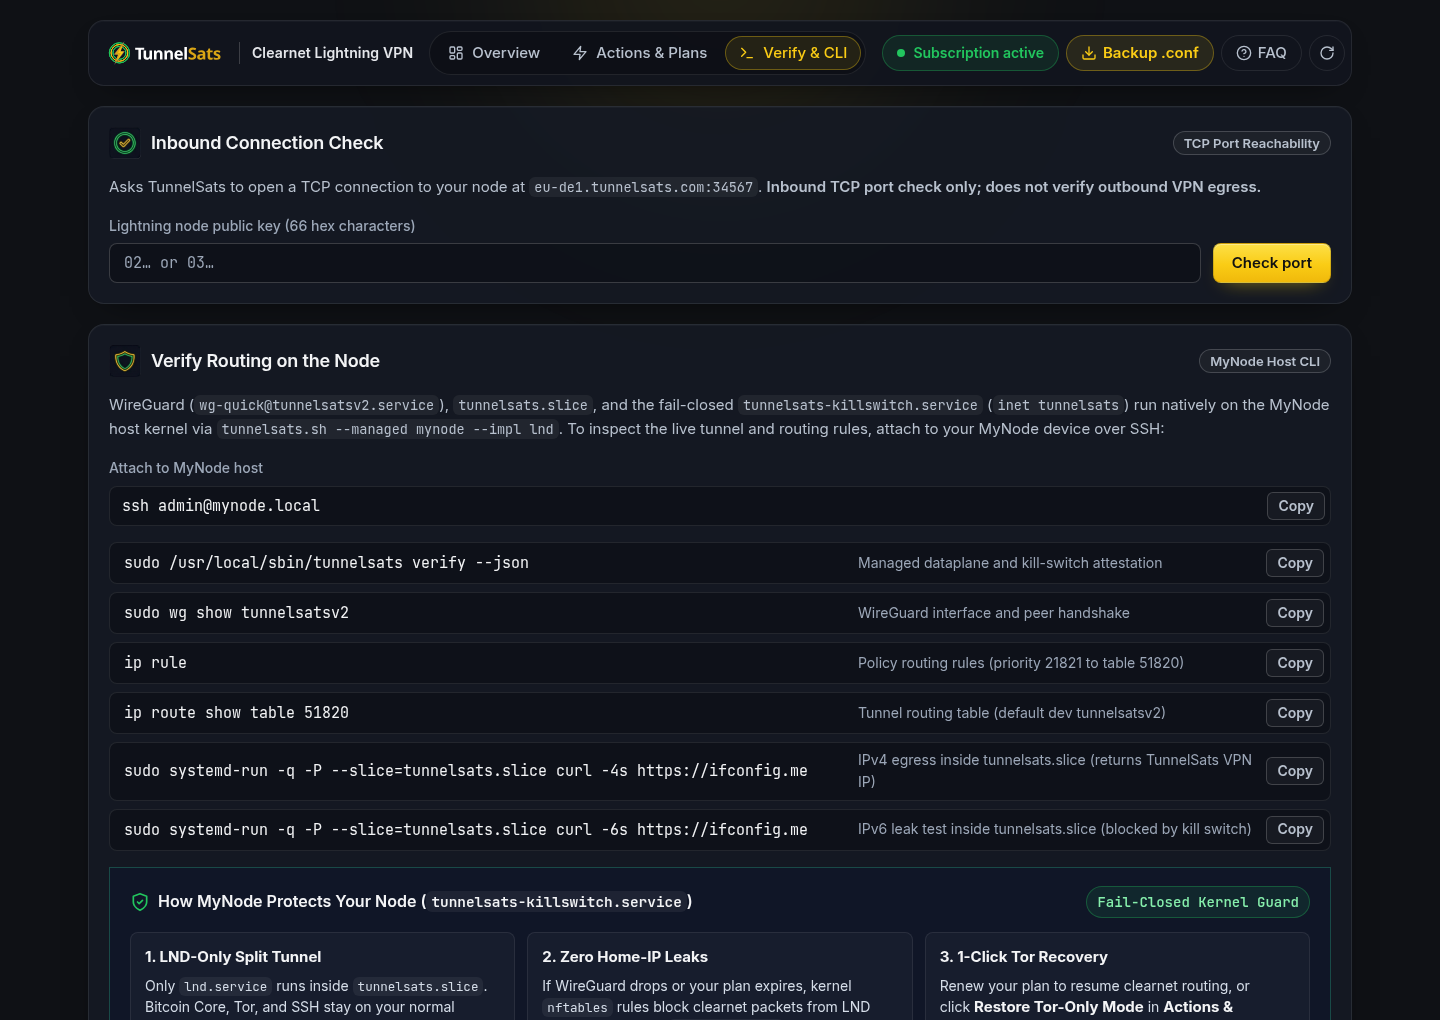
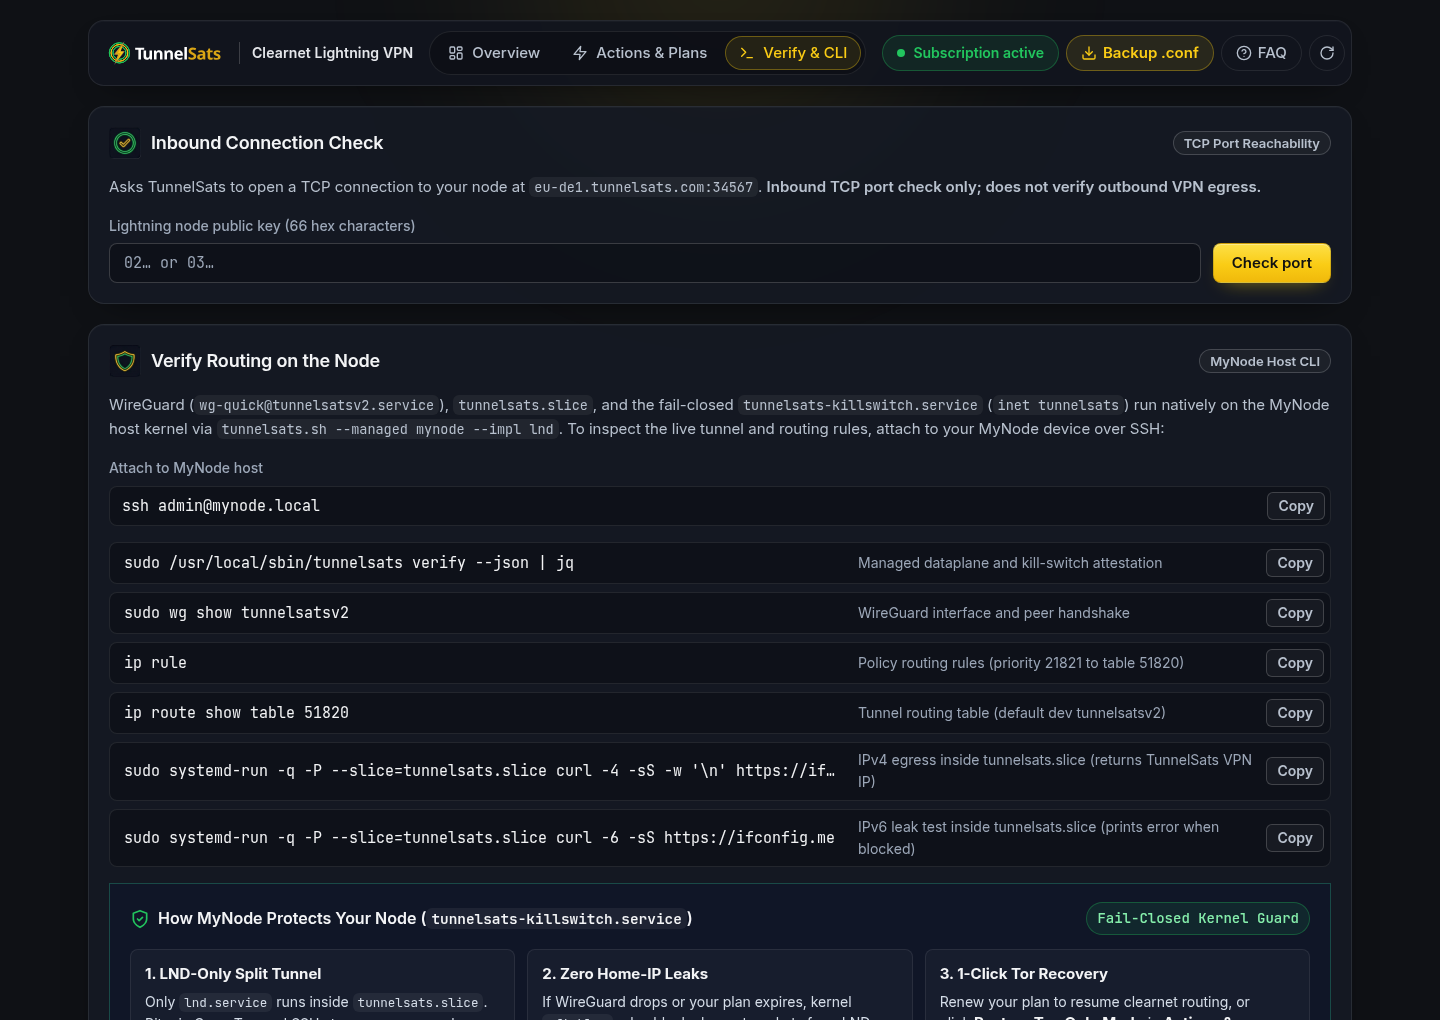
chore(release,ui): bump version to v1.0.0 and refine Verify & CLI commands (#11)

diff --git a/web/index.html b/web/index.html
@@ -1363,7 +1363,7 @@
           <ul class="command-list">
             <li>
               <code id="cmd-ts-verify"
-                >sudo /usr/local/sbin/tunnelsats verify --json</code
+                >sudo /usr/local/sbin/tunnelsats verify --json | jq</code
               >
               <span>Managed dataplane and kill-switch attestation</span>
               <button
@@ -1413,7 +1413,7 @@
             </li>
             <li>
               <code id="cmd-egress-v4"
-                >sudo systemd-run -q -P --slice=tunnelsats.slice curl -4s https://ifconfig.me</code
+                >sudo systemd-run -q -P --slice=tunnelsats.slice curl -4 -sS -w '\n' https://ifconfig.me</code
               >
               <span>IPv4 egress inside tunnelsats.slice (returns TunnelSats VPN IP)</span>
               <button
@@ -1427,9 +1427,9 @@
             </li>
             <li>
               <code id="cmd-egress-v6"
-                >sudo systemd-run -q -P --slice=tunnelsats.slice curl -6s https://ifconfig.me</code
+                >sudo systemd-run -q -P --slice=tunnelsats.slice curl -6 -sS https://ifconfig.me</code
               >
-              <span>IPv6 leak test inside tunnelsats.slice (blocked by kill switch)</span>
+              <span>IPv6 leak test inside tunnelsats.slice (prints error when blocked)</span>
               <button
                 type="button"
                 class="btn-copy"

diff --git a/bridge.py b/bridge.py
@@ -1841,24 +1841,25 @@ from http.server import BaseHTTPRequestHandler, ThreadingHTTPServer
 
 _package_version_cache = None
 VERSION_JSON_PATH = os.path.join(os.path.dirname(os.path.abspath(__file__)), "version.json")
-# What may follow "TunnelSats-StartOS/" in a request header.
+MYNODE_APP_JSON_PATH = os.path.join(
+    os.path.dirname(os.path.abspath(__file__)), "mynode_app", "tunnelsats", "tunnelsats.json"
+)
+# What may follow "TunnelSats-MyNode/" in a request header.
 _PACKAGE_VERSION_RE = re.compile(r"[0-9A-Za-z][0-9A-Za-z.+~-]{0,63}")
 
 
 def _package_semver(value):
-    """`value` without its ExVer revision ("1.0.0:0" -> "1.0.0"), or None
-    unless that is a plain version string."""
+    """`value` without its ExVer revision or leading 'v' ("v1.0.0" -> "1.0.0"),
+    or None unless that is a plain version string."""
     if not isinstance(value, str):
         return None
-    semver = value.strip().partition(":")[0]
+    semver = value.strip().lstrip("v").partition(":")[0]
     return semver if _PACKAGE_VERSION_RE.fullmatch(semver) else None
 
 
 def get_package_version():
-    """The package version without its ExVer revision: PACKAGE_VERSION, which
-    main passes from startos/versions/current.ts (startos/bridgeEnv.ts), else
-    version.json, which scripts/sync-version.js writes from the same file.
-    None if neither has one: never a guessed version."""
+    """The package version: PACKAGE_VERSION env var, version.json, or
+    mynode_app/tunnelsats/tunnelsats.json (.latest_version). None if none exist."""
     global _package_version_cache
     if _package_version_cache is not None:
         return _package_version_cache
@@ -1870,6 +1871,15 @@ def get_package_version():
                 data = json.load(f)
             if isinstance(data, dict):
                 version = _package_semver(data.get("semver") or data.get("version"))
+        except (OSError, ValueError):
+            pass
+
+    if version is None:
+        try:
+            with open(MYNODE_APP_JSON_PATH, "r") as f:
+                data = json.load(f)
+            if isinstance(data, dict):
+                version = _package_semver(data.get("latest_version"))
         except (OSError, ValueError):
             pass
 

diff --git a/tests/test_bridge.py b/tests/test_bridge.py
@@ -435,11 +435,14 @@ class TestBridgeMyNode(unittest.TestCase):
             "mynode-mode-tile-a",
             "mynode-mode-tile-b",
             "tunnelsats-killswitch.service",
-            "systemd-run -q -P --slice=tunnelsats.slice",
+            "tunnelsats verify --json | jq",
+            "systemd-run -q -P --slice=tunnelsats.slice curl -4 -sS",
+            "systemd-run -q -P --slice=tunnelsats.slice curl -6 -sS",
             "killswitch-pillars",
             "How do I back up or export my WireGuard configuration",
         ):
             self.assertIn(required_ui, html_text)
+        self.assertEqual(bridge.user_agent(), "TunnelSats-MyNode/1.0.0")
         for removed_redundant in (
             "btn-overview-backup",
             "btn-mynode-backup",

diff --git a/README.md b/README.md
@@ -104,7 +104,7 @@ sudo /opt/mynode/tunnelsats/scripts/reconcile_mynode.sh restore
 
 ## Upstream `mynodebtc/mynode` Marketplace Submission
 
-1. Tag and release a new version in `Tunnelsats/ts-mynode` (e.g., `v0.1.0`).
+1. Tag and release a new version in `Tunnelsats/ts-mynode` (e.g., `v1.0.0`).
 2. Copy `mynode_app/tunnelsats/` to `rootfs/standard/usr/share/mynode_apps/tunnelsats/` in your `mynodebtc/mynode` fork and add `tunnelsats` to `MARKETPLACE_APPS` in `scripts/print_app_download_hashes.sh`.
 3. Run `scripts/print_app_download_hashes.sh tunnelsats` in `mynodebtc/mynode` and update `download_source_sha256` in `tunnelsats.json`.
 4. Verify with `./app_sdk/create.py check tunnelsats` and open a Pull Request to `mynodebtc/mynode`.

diff --git a/CHANGELOG.md b/CHANGELOG.md
@@ -2,6 +2,10 @@
 
 All notable changes to the TunnelSats myNode application are documented in this file.
 
+## [v1.0.0] - 2026-10-24
+
+- Initial v1.0.0 production release for myNode BTC (App SDK v2)
+
 ## [v0.1.0] - 2026-10-23
 
 - Initial release of the native TunnelSats VPN app (`ts-mynode`) for myNode BTC (App SDK v2).
